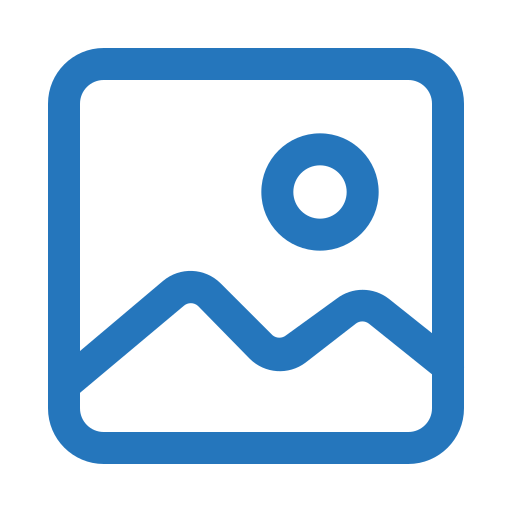
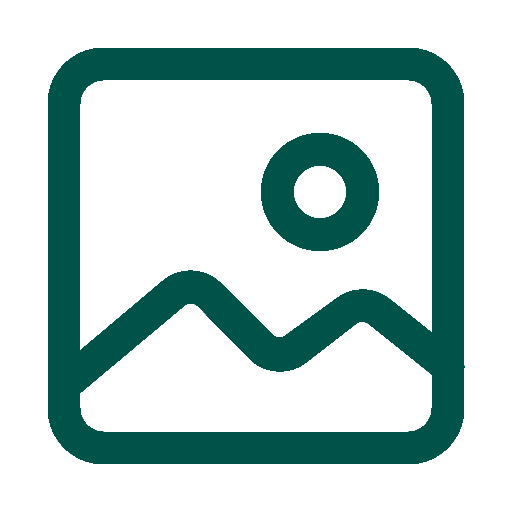
FRONTEND: Minor changes in timeline - Marcous

Changed region(s): [[0.0938, 0.0938, 0.9062, 0.9062], [0.5, 0.25, 0.75, 0.5]]

diff --git a/frontend/src/component/post/Create.jsx b/frontend/src/component/post/Create.jsx
@@ -52,7 +52,7 @@ const CreatePost = (props) => {
                 <textarea className="form-control" placeholder="Create Post" id="create__input" onChange={e => setCaption(e.target.value)} />
 
                 <label htmlFor="upload__image">
-                    <img src={UploadImage} alt="upload" style={{ height: "2em", width: "2em", marginLeft: "0.3em" }} />
+                    <img src={UploadImage} alt="upload" id="post__image" style={{ height: "2em", width: "2em", marginLeft: "0.3em" }} />
                 </label>
 
                 <input type="file" accept="image/*" id="upload__image" style={{ display: "none" }} onChange={handleImageUpload} />

diff --git a/frontend/src/App.css b/frontend/src/App.css
@@ -477,3 +477,7 @@ border-radius: 20px;
   font-family: 'Source Sans Open', sans-serif !important;
   font-size: 16px !important;
 }
+
+#post__image {
+  color: #006400 !important;
+}
